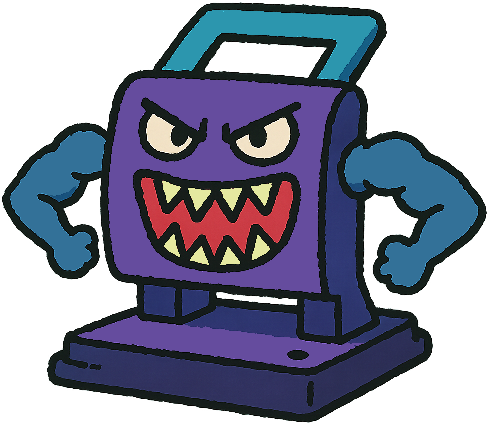
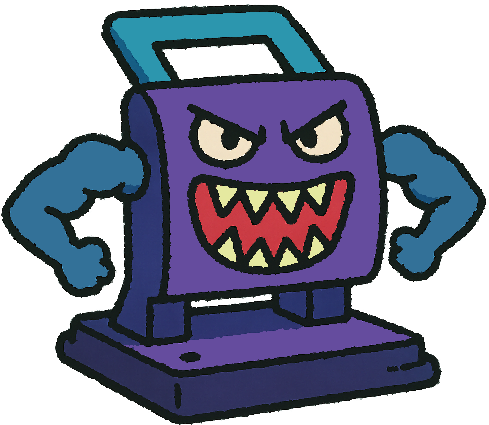
v1.11.10.4-dev-stable # enemigo perforadora añadido | +ajustes/correcciones

diff --git a/core/src/main/java/com/sticklike/core/entidades/enemigos/mobs/escuela/EnemigoPerforadora.java b/core/src/main/java/com/sticklike/core/entidades/enemigos/mobs/escuela/EnemigoPerforadora.java
@@ -6,7 +6,7 @@ import com.badlogic.gdx.graphics.g2d.Sprite;
 import com.badlogic.gdx.graphics.g2d.TextureRegion;
 import com.sticklike.core.entidades.enemigos.animacion.AnimacionGrapadora;
 import com.sticklike.core.entidades.enemigos.ia.MovimientoBaseEnemigos;
-import com.sticklike.core.entidades.enemigos.ia.MovimientoLineal;
+import com.sticklike.core.entidades.enemigos.ia.MovimientoOscilante;
 import com.sticklike.core.entidades.enemigos.mobs.EnemigoBase;
 import com.sticklike.core.entidades.jugador.Jugador;
 import com.sticklike.core.entidades.objetos.recolectables.ObjetoVida;
@@ -15,44 +15,42 @@ import com.sticklike.core.interfaces.ObjetosXP;
 import com.sticklike.core.utilidades.gestores.GestorDeAssets;
 
 import static com.sticklike.core.utilidades.gestores.GestorConstantes.*;
-import static com.sticklike.core.utilidades.gestores.GestorConstantes.TEMPORIZADOR_DANYO;
 import static com.sticklike.core.utilidades.gestores.GestorDeAssets.*;
 
-public class EnemigoGrapadora extends EnemigoBase {
+public class EnemigoPerforadora extends EnemigoBase {
     private Texture abierta;
     private Texture cerrada;
-    private MovimientoLineal movimientoLineal;
+    private MovimientoOscilante movimientoOscilante;
     private AnimacionGrapadora animacionGrapadora;
     private static float velocidadBase = VEL_BASE_GRAPADORA;
 
-    public EnemigoGrapadora(Jugador jugador, float x, float y) {
+    public EnemigoPerforadora(Jugador jugador, float x, float y) {
         super(jugador);
-        this.vidaEnemigo = VIDA_ENEMIGOCULO;
-        this.damageAmount = DANYO_CULO;
+        this.vidaEnemigo = VIDA_ENEMIGO_LIBRO;
+        this.damageAmount = DANYO_CALCULADORA;
         this.coolDownDanyo = COOLDOWN_ENEMIGOCULO;
         this.temporizadorDanyo = TEMPORIZADOR_DANYO;
-        this.abierta = manager.get(ENEMIGO_GRAPADORA, Texture.class);
-        this.cerrada = manager.get(ENEMIGO_GRAPADORA_CERRADA, Texture.class);
+        this.abierta = manager.get(ENEMIGO_PERFORADORA, Texture.class);
+        this.cerrada = manager.get(ENEMIGO_PERFORADORA_CERRADA, Texture.class);
         sprite = new Sprite(abierta);
         sprite.setPosition(x, y);
-        sprite.setSize(36,26);
+        sprite.setSize(40, 36);
         sprite.getTexture().setFilter(Texture.TextureFilter.Linear, Texture.TextureFilter.Linear);
-        this.movimientoLineal = new MovimientoLineal(true, velocidadBase);
-        this.animacionGrapadora = new AnimacionGrapadora(animacionBaseEnemigos, abierta, cerrada, 0.8f, 0.2f);
-        this.damageTexture = manager.get(DAMAGE_GRAPADORA, Texture.class);
-
+        this.movimientoOscilante = new MovimientoOscilante(velocidadBase, true);
+        this.animacionGrapadora = new AnimacionGrapadora(animacionBaseEnemigos, abierta, cerrada, 0.25f, 0.25f);
+        this.damageTexture = manager.get(DAMAGE_PERFORADORA, Texture.class);
     }
 
     @Override
     protected void actualizarMovimiento(float delta) {
-        movimientoLineal.actualizarMovimiento(delta, sprite, jugador);
+        movimientoOscilante.actualizarMovimiento(delta, sprite, jugador);
         animacionGrapadora.actualizarAnimacion(delta, sprite);
         animacionBaseEnemigos.flipearEnemigo(jugador, sprite);
     }
 
     @Override
     protected void actualizarKnockback(float delta) {
-        movimientoLineal.actualizarSoloKnockback(delta, sprite, true);
+        movimientoOscilante.actualizarSoloKnockback(delta, sprite, true);
     }
 
     @Override
@@ -65,7 +63,7 @@ public class EnemigoGrapadora extends EnemigoBase {
 
     @Override
     protected void aplicarKnockbackEnemigo(float fuerza, float dirX, float dirY) {
-        movimientoLineal.aplicarKnockback(fuerza, dirX, dirY);
+        movimientoOscilante.aplicarKnockback(fuerza, dirX, dirY);
     }
 
     @Override
@@ -84,11 +82,11 @@ public class EnemigoGrapadora extends EnemigoBase {
 
     @Override
     public boolean estaEnKnockback() {
-        return movimientoLineal.getKnockbackTimer() > 0f;
+        return movimientoOscilante.getKnockbackTimer() > 0f;
     }
 
     @Override
     public MovimientoBaseEnemigos getMovimiento() {
-        return movimientoLineal;
+        return movimientoOscilante;
     }
 }

diff --git a/core/src/main/java/com/sticklike/core/utilidades/gestores/GestorDeAssets.java b/core/src/main/java/com/sticklike/core/utilidades/gestores/GestorDeAssets.java
@@ -40,6 +40,10 @@ public class GestorDeAssets {
     public static final String ENEMIGO_LIBRO = "enemigos/12libroMates.png";
     public static final String ENEMIGO_GRAPADORA = "enemigos/14grapadora.png";
     public static final String ENEMIGO_GRAPADORA_CERRADA = "enemigos/14grapadoraCerrada.png";
+    public static final String ENEMIGO_PERFORADORA = "enemigos/15perforadora.png";
+    public static final String ENEMIGO_PERFORADORA_CERRADA = "enemigos/15perforadoraCerrados.png";
+
+
     public static final String CORAZON_VIDA = "hud/life.png";
     public static final String ARMA_PIEDRA = "armas/01piedra.png";
     public static final String ARMA_CALCETIN = "armas/02calcetin.png";
@@ -122,6 +126,7 @@ public class GestorDeAssets {
     public static final String DAMAGE_CALCULADORA = "enemigos/damageSprites/11calculadoraD.png";
     public static final String DAMAGE_LIBRO = "enemigos/damageSprites/12libroMatesD.png";
     public static final String DAMAGE_GRAPADORA = "enemigos/damageSprites/14grapadoraD.png";
+    public static final String DAMAGE_PERFORADORA = "enemigos/damageSprites/15perforadoraD.png";
 
     public static void cargarRecursos() {
         cargarTexturas();
@@ -154,6 +159,8 @@ public class GestorDeAssets {
         manager.load(ENEMIGO_LIBRO, Texture.class);
         manager.load(ENEMIGO_GRAPADORA, Texture.class);
         manager.load(ENEMIGO_GRAPADORA_CERRADA, Texture.class);
+        manager.load(ENEMIGO_PERFORADORA, Texture.class);
+        manager.load(ENEMIGO_PERFORADORA_CERRADA, Texture.class);
 
         manager.load(CORAZON_VIDA, Texture.class);
         manager.load(ARMA_PIEDRA, Texture.class);
@@ -235,6 +242,7 @@ public class GestorDeAssets {
         manager.load(DAMAGE_CALCULADORA, Texture.class);
         manager.load(DAMAGE_LIBRO, Texture.class);
         manager.load(DAMAGE_GRAPADORA, Texture.class);
+        manager.load(DAMAGE_PERFORADORA, Texture.class);
 
         // Animaciones
         manager.load("acciones/movement/stickman_idle00.png", Texture.class);

diff --git a/core/src/main/java/com/sticklike/core/utilidades/gestores/GestorConstantes.java b/core/src/main/java/com/sticklike/core/utilidades/gestores/GestorConstantes.java
@@ -201,7 +201,8 @@ public class GestorConstantes { // todo -> si escala demasiado habrá que gestio
     public static final float SHADOW_HEIGHT_CULO = 0.35f;
     public static final float SHADOW_OFFSET = 2.25f;
     public static final float SHADOW_OFFSET_POLLA = 2f;
-
+    public static final float SHADOW_WIDTH_PERF = 0.8f;
+    public static final float SHADOW_HEIGH_PERF = 0.3f;
     // -------------------------------------------------
     // Animaciones enemigos
     // -------------------------------------------------
@@ -312,6 +313,7 @@ public class GestorConstantes { // todo -> si escala demasiado habrá que gestio
     public static final int LVL_EVENTO6 = 13;
     public static final int LVL_EVENTO7 = 14;
     public static final int LVL_EVENTO8 = 15;
+    public static final int LVL_EVENTO9 = 16;
     public static final float EVENTO1_SPAWN_RATE = 0.33f;
     public static final float EVENTO1_SPEED_MULT = 1.1f;
     public static final float EVENTO2_SPAWN_RATE = 0.2f;
@@ -321,6 +323,7 @@ public class GestorConstantes { // todo -> si escala demasiado habrá que gestio
     public static final float EVENTO3_SPAWN_RATE = 0.1f;
     public static final float EVENTO4_SPAWN_RATE = 0.05f;
     public static final float EVENTO5_SPAWN_RATE = 0.025f;
+    public static final float EVENTO6_SPAWN_RATE = 0.02f;
     public static final float EVENTO_TETAS_SPAWN_RATE = 0.000001f;
     public static final String[] LISTA_TETAS = {"TETA", "TETA", "CULO"};
     public static final String[] LISTA_EXAMEN = {"EXAMEN"};
@@ -331,6 +334,7 @@ public class GestorConstantes { // todo -> si escala demasiado habrá que gestio
     public static final String[] TIPOS_ENEMIGOS3 = {"POLLA", "TETA"};
     public static final String[] TIPOS_ENEMIGOS4 = {"CALCULADORA", "LIBRO"};
     public static final String[] TIPOS_ENEMIGOS5 = {"GRAPADORA"};
+    public static final String[] TIPOS_ENEMIGOS6 = {"PERFORADORA"};
 
     // -------------------------------------------------
     // Configuración borrones

diff --git a/core/src/main/java/com/sticklike/core/entidades/renderizado/RenderBaseEnemigos.java b/core/src/main/java/com/sticklike/core/entidades/renderizado/RenderBaseEnemigos.java
@@ -8,6 +8,7 @@ import com.badlogic.gdx.math.MathUtils;
 import com.badlogic.gdx.utils.Array;
 import com.sticklike.core.entidades.enemigos.bosses.BossPolla;
 import com.sticklike.core.entidades.enemigos.mobs.escuela.EnemigoLibro;
+import com.sticklike.core.entidades.enemigos.mobs.escuela.EnemigoPerforadora;
 import com.sticklike.core.entidades.mobiliario.destructibles.Destructibles;
 import com.sticklike.core.entidades.mobiliario.destructibles.Destructibles2;
 import com.sticklike.core.entidades.enemigos.mobs.escuela.EnemigoExamen;
@@ -81,9 +82,10 @@ public class RenderBaseEnemigos {
                     drawSombraBotes(teta, r, ex, ey, ew, eh, teta.getMovimientoBotes().getCurrentOffset(), teta.getMovimientoBotes().getAmplitudZigzag(), -5f);
                 case EnemigoLibro libro ->
                     drawSombraBotes(libro, r, ex, ey, ew, eh, libro.getMovimientoBotes().getCurrentOffset(), libro.getMovimientoBotes().getAmplitudZigzag(), -3f);
-
                 case Tragaperras tragaperras ->
                     drawSimple(tragaperras, r, ex - 3.5f, ey, ew, eh, ew * 0.9f, eh * 0.275f, SHADOW_OFFSET * 4);
+                case EnemigoPerforadora enemigoPerforadora ->
+                    drawSimple(enemigoPerforadora, r, ex, ey -2.5f, ew, eh, ew * SHADOW_WIDTH_PERF, eh * SHADOW_HEIGH_PERF, SHADOW_OFFSET);
                 default -> drawVater(e, r, ex, ey, ew, eh);
             }
         }

diff --git a/core/src/main/java/com/sticklike/core/gameplay/sistemas/SistemaDeEventos.java b/core/src/main/java/com/sticklike/core/gameplay/sistemas/SistemaDeEventos.java
@@ -56,6 +56,7 @@ public class SistemaDeEventos {
         eventos.add(new Evento("Regla", this::spawnReglas, LVL_EVENTO6, 7));
         eventos.add(new Evento("Calculadora y libro", this::spawnCalculadoras, LVL_EVENTO7, 8));
         eventos.add(new Evento("Grapadoras", this::spawnGrapadoras, LVL_EVENTO8, 9));
+        eventos.add(new Evento("Perforadoras", this::spawnPerforadoras, 1, 10));
     }
 
     public void actualizar() {
@@ -154,6 +155,11 @@ public class SistemaDeEventos {
     private void spawnGrapadoras() {
         ctrlEnemigos.setTiposDeEnemigos(TIPOS_ENEMIGOS5);
         ctrlEnemigos.setIntervaloDeAparicion(EVENTO5_SPAWN_RATE);
+    }
+
+    private void spawnPerforadoras() {
+        ctrlEnemigos.setTiposDeEnemigos(TIPOS_ENEMIGOS6);
+        ctrlEnemigos.setIntervaloDeAparicion(EVENTO6_SPAWN_RATE);
     }
 
     public void dispose() {

diff --git a/core/src/main/java/com/sticklike/core/gameplay/controladores/ControladorEnemigos.java b/core/src/main/java/com/sticklike/core/gameplay/controladores/ControladorEnemigos.java
@@ -399,6 +399,8 @@ public class ControladorEnemigos {
                 return new EnemigoLibro(jugador, x, y);
             case "GRAPADORA":
                 return new EnemigoGrapadora(jugador, x, y);
+            case "PERFORADORA":
+                return new EnemigoPerforadora(jugador,x,y);
             default:
                 throw new IllegalArgumentException("Tipo de enemigo no reconocido: " + tipoEnemigo);
         }
